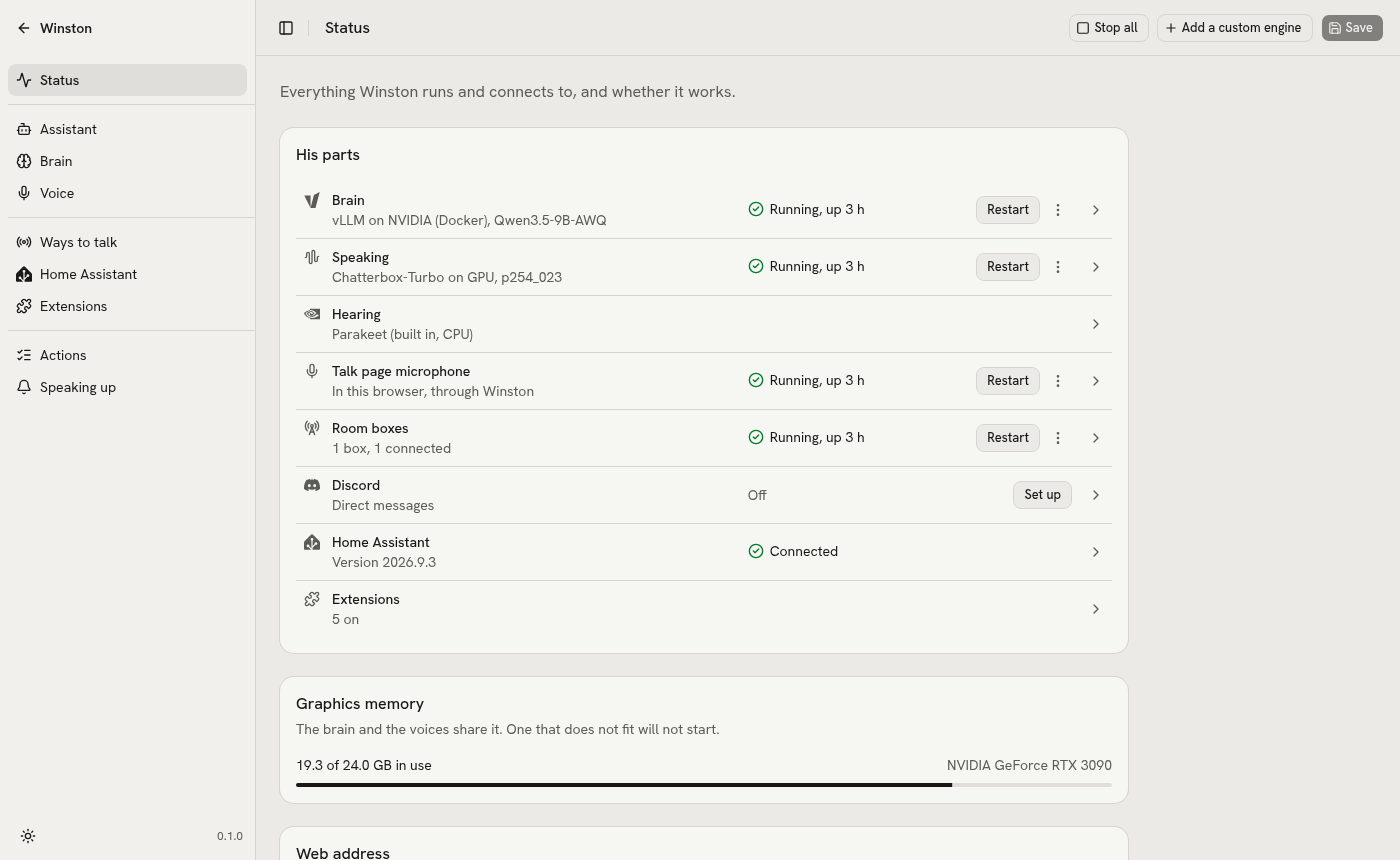
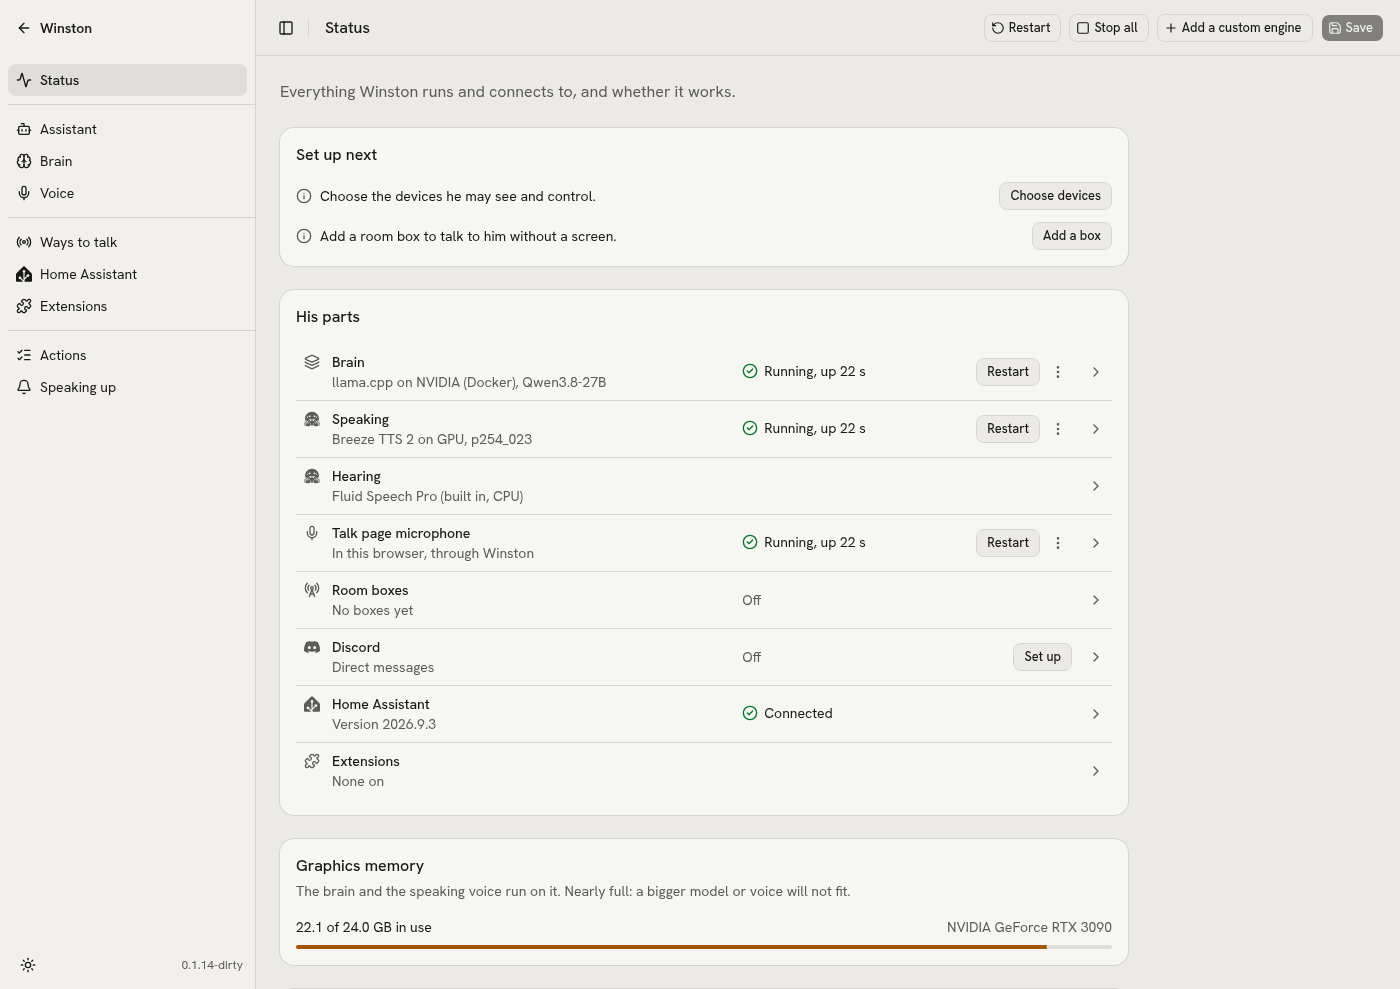
Restart on Status, and what is on the graphics card
Status's header has Restart: winstond stops every engine and channel,
adopted ones too, exits as on Ctrl-C and runs `winston up` again in the
same process, so a service or a terminal keeps it. The graphics memory
card names the parts on the card from the saved picks instead of a fixed
"the brain and the voices", and says a brain on Ollama spills to the
processor.

diff --git a/web/src/pages/status.tsx b/web/src/pages/status.tsx
@@ -1,7 +1,7 @@
 import { useEffect, useRef, useState, type ComponentProps, type ReactNode } from 'react'
-import { Play, Plus, Square } from 'lucide-react'
+import { Play, Plus, RotateCcw, Square } from 'lucide-react'
 import { Link, useNavigate } from 'react-router'
-import { $api, errorText, type EngineConfig, type EngineState, type EngineStatus, type ExtensionView } from '@/api/client'
+import { $api, errorText, type Config, type EngineConfig, type EngineState, type EngineStatus, type ExtensionView, type Presets, type Status } from '@/api/client'
 import { useConfig } from '@/api/config'
 import { updateNeedsYou, useUpdate } from '@/api/update'
 import { engineLabel, isRunning, notWorking, partName, restartCost, STATE_WORDS, useEngineActions, useStatus } from '@/api/status'
@@ -22,9 +22,11 @@ import { Label } from '@/components/ui/label'
 import { Progress } from '@/components/ui/progress'
 import { Select, SelectContent, SelectItem, SelectTrigger, SelectValue } from '@/components/ui/select'
 import { useConfirm } from '@/hooks/use-confirm'
+import { useGraphicsMemory } from '@/hooks/use-graphics-memory'
 import { useDrivers } from '@/hooks/use-drivers'
-import { useSettings } from '@/hooks/use-settings'
-import { capitalize, since } from '@/lib/format'
+import { useSettings, type SettingsState } from '@/hooks/use-settings'
+import { capitalize, joinNames, since } from '@/lib/format'
+import { memoryUse } from '@/lib/graphics-memory'
 import { matchPreset, SLOT_TITLES, type Kind } from '@/lib/presets'
 import { getIn, section, setIn } from '@/lib/schema'
 import { SETUP_STEPS } from '@/lib/setup'
@@ -165,6 +167,47 @@ function PartState({ part }: { part: Part }) {
   )
 }
 
+// The memory bar's parts that are his, as a sentence names them.
+const ON_CARD: Record<string, string> = { Brain: 'the brain', Voice: 'the speaking voice', Hearing: 'hearing' }
+
+/** The graphics card: how full it is now, and which of his parts run on it, from the saved picks. */
+function GraphicsCard({ gpu, page, config, presets, running }: { gpu: NonNullable<Status['gpu']>; page: SettingsState; config: Config; presets?: Presets; running: boolean }) {
+  const plan = useGraphicsMemory(page)
+  const use = plan && presets ? memoryUse(plan, config, presets) : null
+  const full = gpu.used_mb / gpu.total_mb > 0.9
+  // The brain by brainHere: one whose memory is not known is on the card all the same.
+  const names = [
+    ...(use?.brainHere ? [ON_CARD.Brain] : []),
+    ...(use?.parts ?? []).filter((p) => p.label !== 'Brain' && ON_CARD[p.label]).map((p) => ON_CARD[p.label]),
+  ]
+  const what = !use ? '' : names.length ? `${capitalize(joinNames(names))} ${names.length > 1 ? 'run' : 'runs'} on it.` : 'None of his parts run on it.'
+  const fit = full
+    ? 'Nearly full: a bigger model or voice will not fit.'
+    : use?.brainHere && use.spill === 'slow'
+      ? 'A brain too big for it runs partly on the processor, about three times slower; a voice or hearing will not start.'
+      : 'A part that does not fit will not start.'
+  return (
+    <Card>
+      <CardHeader>
+        <CardTitle>Graphics memory</CardTitle>
+        <CardDescription>
+          {what} {fit}
+        </CardDescription>
+      </CardHeader>
+      <CardContent className="flex flex-col gap-2">
+        <div className="flex flex-wrap justify-between gap-x-4 text-sm">
+          <span>
+            {(gpu.used_mb / 1024).toFixed(1)} of {(gpu.total_mb / 1024).toFixed(1)} GB in use
+            {running ? '' : ' by other programs'}
+          </span>
+          <span className="text-muted-foreground">{gpu.name}</span>
+        </div>
+        <Progress value={(gpu.used_mb / gpu.total_mb) * 100} className={cn(full && '*:data-[slot=progress-indicator]:bg-warning')} />
+      </CardContent>
+    </Card>
+  )
+}
+
 /** The Settings landing: what needs you, what to set up next, his parts by role with their state and
  * commands, the graphics card, the custom engines once there is one, and who can open this page. */
 export default function StatusPage() {
@@ -232,7 +275,6 @@ export default function StatusPage() {
   const connected = rooms.data?.filter((r) => r.box && r.connected).length ?? 0
   const haDetail = exposure.isError ? errorText(exposure.error) : exposure.data?.ok === false ? exposure.data.detail : undefined
   const haDown = haOn && (exposure.isError || exposure.data?.ok === false)
-  const full = !!gpu && gpu.used_mb / gpu.total_mb > 0.9
   const on = (extensions.data ?? []).filter((x) => x.enabled)
   const needing = on.filter(needsYou)
 
@@ -375,6 +417,15 @@ export default function StatusPage() {
     if (await ask({ title: 'Stop everything?', lines, choices: [{ label: 'Stop all', value: 'yes', destructive: true }] })) actions.stopAll.mutate({})
   }
 
+  const restartAll = async () => {
+    const lines = [
+      `He stops hearing, answering and speaking everywhere, then starts again with every saved setting.`,
+      ...processes.filter(isRunning).map((e) => `${partName(e.name)}: back in ${restartCost(e)}`),
+      'This page reconnects when he is back.',
+    ]
+    if (await ask({ title: `Restart ${name}?`, lines, choices: [{ label: 'Restart', value: 'yes' }] })) actions.restartWinston.mutate({})
+  }
+
   const partColumns: Column<Part>[] = [
     {
       key: 'part',
@@ -474,6 +525,7 @@ export default function StatusPage() {
       intro={`Everything ${name} runs and connects to, and whether it works.`}
       page={page}
       commands={[
+        { label: 'Restart', icon: RotateCcw, onClick: () => void restartAll() },
         ...(processes.some((e) => !isRunning(e)) ? [{ label: 'Start all', icon: Play, onClick: () => actions.startAll.mutate({}) }] : []),
         ...(processes.some(isRunning) ? [{ label: 'Stop all', icon: Square, onClick: () => void stopAll() }] : []),
         { label: 'Add a custom engine', icon: Plus, onClick: () => setAdding({ name: '', driver: 'docker' }) },
@@ -504,29 +556,7 @@ export default function StatusPage() {
           <DataTable columns={partColumns} rows={parts} rowKey={(p) => p.key} rowLink={(p) => p.to} actions={partActions} />
         </CardContent>
       </Card>
-      {gpu ? (
-        <Card>
-          <CardHeader>
-            <CardTitle>Graphics memory</CardTitle>
-            <CardDescription>
-              The brain and the voices share it. {full ? 'Nearly full: a bigger model or voice will not fit.' : 'One that does not fit will not start.'}
-            </CardDescription>
-          </CardHeader>
-          <CardContent className="flex flex-col gap-2">
-            <div className="flex flex-wrap justify-between gap-x-4 text-sm">
-              <span>
-                {(gpu.used_mb / 1024).toFixed(1)} of {(gpu.total_mb / 1024).toFixed(1)} GB in use
-                {processes.some(isRunning) ? '' : ' by other programs'}
-              </span>
-              <span className="text-muted-foreground">{gpu.name}</span>
-            </div>
-            <Progress
-              value={(gpu.used_mb / gpu.total_mb) * 100}
-              className={cn(full && '*:data-[slot=progress-indicator]:bg-warning')}
-            />
-          </CardContent>
-        </Card>
-      ) : null}
+      {gpu ? <GraphicsCard gpu={gpu} page={page} config={saved} presets={presets.data} running={processes.some(isRunning)} /> : null}
       {custom.length ? (
         // Kept in sight once there is one: a custom engine has no row in His parts.
         <Card>

diff --git a/web/src/api/schema.d.ts b/web/src/api/schema.d.ts
@@ -1202,6 +1202,23 @@ export interface paths {
         patch?: never;
         trace?: never;
     };
+    "/api/restart": {
+        parameters: {
+            query?: never;
+            header?: never;
+            path?: never;
+            cookie?: never;
+        };
+        get?: never;
+        put?: never;
+        /** Restart Winston itself: stop everything as Ctrl-C does, then run `winston up` again, which starts the engines and channels and applies what only his own restart applies */
+        post: operations["restart_winston_api_restart_post"];
+        delete?: never;
+        options?: never;
+        head?: never;
+        patch?: never;
+        trace?: never;
+    };
     "/api/config": {
         parameters: {
             query?: never;
@@ -7102,6 +7119,26 @@ export interface operations {
         };
     };
     stop_all_api_engines_stop_all_post: {
+        parameters: {
+            query?: never;
+            header?: never;
+            path?: never;
+            cookie?: never;
+        };
+        requestBody?: never;
+        responses: {
+            /** @description Successful Response */
+            200: {
+                headers: {
+                    [name: string]: unknown;
+                };
+                content: {
+                    "application/json": components["schemas"]["Ok"];
+                };
+            };
+        };
+    };
+    restart_winston_api_restart_post: {
         parameters: {
             query?: never;
             header?: never;

diff --git a/web/src/api/status.ts b/web/src/api/status.ts
@@ -36,6 +36,7 @@ export function useEngineActions() {
     restart: $api.useMutation('post', '/api/engines/{name}/restart', refresh),
     startAll: $api.useMutation('post', '/api/engines/start_all', refresh),
     stopAll: $api.useMutation('post', '/api/engines/stop_all', refresh),
+    restartWinston: $api.useMutation('post', '/api/restart', refresh),
   }
 }
 

diff --git a/src/winston/api/app.py b/src/winston/api/app.py
@@ -1502,6 +1502,21 @@ def create_app(cfg: WinstonConfig | None = None, autostart: bool = True) -> Fast
         await sup.stop_all()
         return Ok()
 
+    @app.post("/api/restart", response_model=Ok,
+              summary="Restart Winston itself: stop everything as Ctrl-C does, then run `winston up` again, which "
+                      "starts the engines and channels and applies what only his own restart applies")
+    async def restart_winston():
+        server = getattr(app.state, "server", None)
+        if server is None:
+            raise HTTPException(409, "Winston was not started with `winston up`, so restart him where he was started.")
+
+        async def go():
+            await sup.stop_all()        # all of them: exiting stops only what this winstond started itself
+            app.state.restart = True
+            server.should_exit = True
+        spawn(go())
+        return Ok()
+
     etag_header = {"ETag": {"description": "The saved file's version; send it back as If-Match",
                             "schema": {"type": "string"}}}
 

diff --git a/src/winston/cli/main.py b/src/winston/cli/main.py
@@ -127,8 +127,14 @@ def up(host: str = typer.Option(None), port: int = typer.Option(None),
                              f"else has it")
     application = create_app(cfg, autostart=not no_start)
     application.state.opened_for_setup = opened
-    uvicorn.run(application, host=host, port=port, log_level="warning",
-                timeout_graceful_shutdown=5)   # open SSE streams (status, live) would otherwise hold shutdown forever
+    server = application.state.server = uvicorn.Server(uvicorn.Config(
+        application, host=host, port=port, log_level="warning",
+        timeout_graceful_shutdown=5))   # open SSE streams (status, live) would otherwise hold shutdown forever
+    server.run()
+    # Restart from the page (/api/restart): everything has stopped as on Ctrl-C; the same command again, in
+    # this process, so a service or a terminal keeps it.
+    if getattr(application.state, "restart", False):
+        os.execv(sys.argv[0], sys.argv)
 
 
 @app.command()

diff --git a/docs/plan.md b/docs/plan.md
@@ -483,6 +483,7 @@ Aldin asked whether setup was ever made as easy as possible: one command to inst
 - **Status 2026-11-24: the wizard asks nothing at each step.** Aldin found each step asked to save and restart. Now a step saves without a confirm (a new name changes his personality too, the confirm's default) and restarts nothing; Finish restarts each running engine with saved changes waiting, leaving one still installing, which reads the saved config when it starts. Checked: the setup smoke file, 8 of 8, with a new test that Finish restarts a waiting engine and not an installing one, and the rename and room box tests going through with no dialog; the settings file, 23 of 23, still confirming as before. Not yet: Aldin walking the wizard again.
 - **Status 2026-11-24: a download is a bar.** Aldin found the download line a text that jumped every few seconds and sat at "8.7 GB of 8.7 GB". The line is now a bar per part, polled every second and gliding between polls, and a Docker image says Unpacking once it is all downloaded and counts again: by bytes on overlay2, by layer on containerd's store (Docker 29's default, measured here: its Extracting events count seconds), with the bar pulsing. The shadcn Progress now hands its value to Radix, so a screen reader hears it (the flash step's bar too). Checked: `tests/install_cases.py` with the fake Docker's stream as this desktop's Docker 29 sends it (layers announced, downloads, unpacking in seconds and in bytes); a smoke test watching the bar move and then say Unpacking; the settings and setup files, 32 of 32. Not yet: a real image download watched on the page.
 - **Status 2026-11-25: `winston update` crashed after installing.** Updating Aldin's install from 0.1.8 to 0.1.9: the new release was unpacked and `current` moved, then the old one crashed printing what is new (`TypeError` on `None / str`). It asked whether `current` pointed at itself, which the move had just made false, so it no longer knew it was a release; on an install with the service running, the restart was skipped too. Now a release is any folder beside a `current` that points into the same folder. Checked: `tests/update_cases.py` asks for the release after `current` moved (failed before the fix); unit checks. His install runs 0.1.9 (the service was stopped, so nothing was missed). The fix reaches installs in the release after 0.1.9; 0.1.9 itself still crashes the same way when it updates.
+- **Status 2026-11-26: Restart on Status, and what is on the card.** Aldin asked how to restart Winston entirely from Status, and whether the graphics memory line ("The brain and the voices share it") held with hearing on the card or the voice on the processor. It did not: it was fixed text. Now it names the parts on the card from the saved picks, and says a brain on Ollama spills to the processor instead of not starting. Status's header has Restart (`POST /api/restart`): winstond stops every engine and channel, adopted ones too, exits as on Ctrl-C and `winston up` runs itself again in the same process (`os.execv`), so the service or terminal keeps it. Checked on throwaway winstonds: `--no-start` back in 2.5 s with the same pid; a custom subprocess engine it started came back as a new process, all healthy in about 4 s. An adopted subprocess engine (one an earlier winstond left running) is not restarted: the subprocess driver can stop only a process it started, as with a row's Stop; Docker engines are stopped by name. Shots retaken. **Open:** Restart on his own instance with the real brain.
 - **Status 2026-11-25: unsaved settings are obvious.** Aldin picked the FP8 Granite on the Brain page, left without pressing Save and asked whether that should be more obvious. Now each edited field says "Not saved yet: still <the saved value>" under it, and a wide header says "1 unsaved change" beside Save, as the phone's bar already did ([saving](web-ui.md#saving)). The wizard, which saves each step on Next, shows neither on its fields. The Brain page keeps an explicit Save: a model change restarts the brain, which can take minutes and a download. Checked: a smoke test editing Longest reply (the line and the count, both gone back at the saved value); the whole smoke suite, 36 of 36. Not yet: Aldin's look at it.
 - **Status 2026-11-25: setup sizes the profile to the card.** Aldin asked for 8 and 12 GB cards (a friend has 8 GB), picked automatically with no new question, brain first and a better voice once the brain is good enough. Measured on the RTX 3090, peak with both working, without the desktop: `qwen3.5:4b` 4.1 GB, `granite4.2:8b` 6.6 GB, with Chatterbox 7.4 and 9.9 GB, with Breeze 9.4 and 11.9 GB. `setup.pick` adds 1.5 GB and takes the first that fits the largest card: `nvidia-16gb` (Granite and Breeze) from 14 GB, `nvidia-12gb` (Granite and Chatterbox), `ollama` (Granite, Pocket) at 10 and 11 GB, `nvidia-8gb` (Qwen 4B, Pocket) below. Checked in `tests/setup_cases.py`. **Open:** a real 8 GB and 12 GB card (his friend's), the first sound with brain and voice sharing a smaller card, and the 4B's 26 to 50 jump between two runs.
 - **Status 2026-11-25: a memory bar and the context as a setting.** Aldin asked for a recommendation on first run he can adjust, a live graphics memory bar, and the context as a slider (demo approved first). `llm.context` (16K floor, 128K top) replaces `-c` and `--max-model-len` in the engine args, with older configs migrated to the same value. The wizard, Brain and Voice pages show the bar (green under 80%, amber to 100%, red past); setup fills the context last up to 90% of the card: 8 GB 112K, 12 GB 20K, 16 GB 40K, 24 GB 16K. Brains measured at 16, 32 and 64K on the RTX 3090. Checked in `tests/memory_cases.py` and the UI smoke test (36 passed). **Open:** the bar against a real 8 and 12 GB card.

diff --git a/docs/web-ui.md b/docs/web-ui.md
@@ -135,9 +135,11 @@ From the top:
   [updating](setup.md#updating).
 - **His parts**: Brain, Speaking, Hearing, Talk page microphone, Room boxes, Discord, Home Assistant
   and Extensions. Each row is described below the list.
-- **Graphics memory**: "23.4 of 24.0 GB in use" and the card's name. The brain and the voices share
-  it; one that does not fit will not start. Above 90% the bar is in the warning colour and the card
-  says "Nearly full: a bigger model or voice will not fit."
+- **Graphics memory**: "23.4 of 24.0 GB in use" and the card's name, then which of his parts run on
+  the card, from the saved picks ("The brain and the speaking voice run on it."): a voice or hearing on
+  the processor is not named. A part that does not fit will not start; a brain on Ollama runs partly on
+  the processor instead, about three times slower. Above 90% the bar is in the warning colour and the
+  card says "Nearly full: a bigger model or voice will not fit."
 - **Custom engines**, once there is one: servers Winston starts and keeps running, which nothing uses
   until a setting points at their address. Each row opens its page at `/status/engines/<name>`, which
   shows How it runs open.
@@ -158,8 +160,11 @@ change, for Save) and Set up for Discord. Its menu has Stop and Log, and the row
 sets it up. Stop and Restart say what stops and for how long ("Stop the brain? He cannot answer
 anywhere until it starts again, about 24 s.").
 
-The header has Start all (while something is stopped), Stop all (while something runs, after asking)
-and Add a custom engine, which asks a name and how it runs. Log is described with
+The header has Restart, Start all (while something is stopped), Stop all (while something runs, after
+asking) and Add a custom engine. Restart, after asking with how long each part takes to come back, stops
+everything and runs `winston up` again in the same process, so a service or a terminal keeps it: every
+engine and channel starts fresh, and so do the settings only his own restart applies (Web address). It
+works when he was started with `winston up`, as the service does. Add a custom engine which asks a name and how it runs. Log is described with
 [status and errors](running.md#status-and-errors).
 
 ### Brain

diff --git a/CHANGELOG.md b/CHANGELOG.md
@@ -3,6 +3,13 @@
 What each release brings, newest first. Winston shows the entries newer than yours on Status before
 you update, and `winston update` prints them after.
 
+## 0.1.15 (unreleased)
+
+- Restart on Status restarts all of Winston from the page: every part, and the settings that wait for
+  his own restart.
+- Status's graphics memory says which parts run on the card, hearing included, and leaves out a voice
+  on the processor.
+
 ## 0.1.14 (2026-11-25)
 
 - The memory bar now also works without an NVIDIA card: on an AMD card it shows the card's memory, and

diff --git a/docs/ui-guide.md b/docs/ui-guide.md
@@ -623,7 +623,8 @@ The landing page shows, in order:
 - custom engines, once there is one;
 - the web address with its warning.
 
-Its commands are Start all and Stop all, each only while it applies, and Add a custom engine.
+Its commands are Restart (all of him, Winston included), Start all and Stop all, each only while it applies,
+and Add a custom engine.
 
 ### Brain and Voice
 
